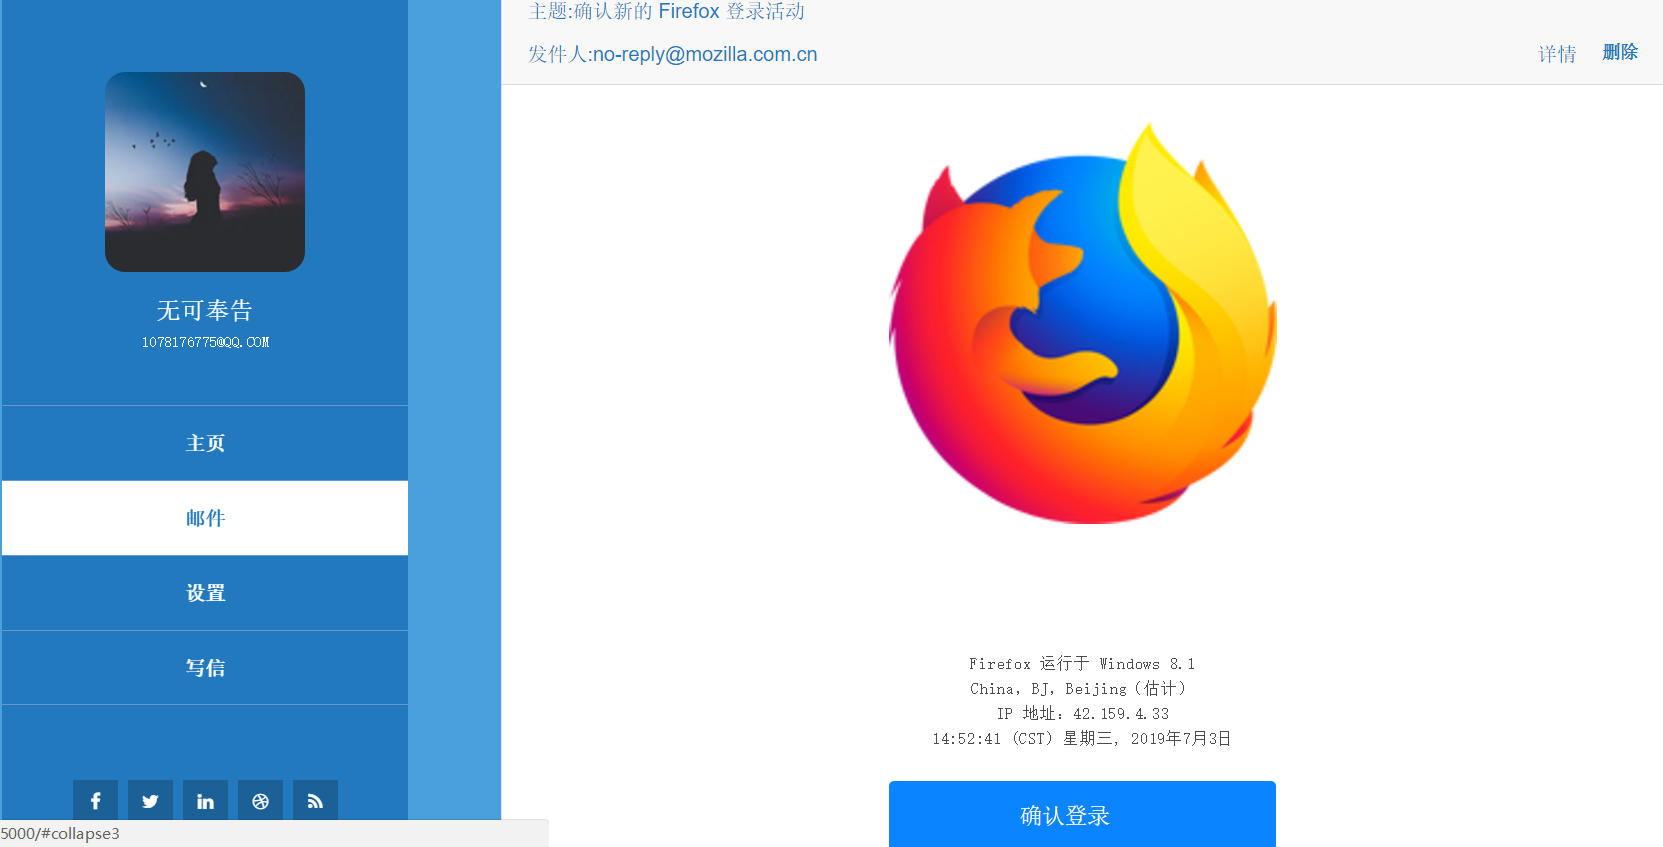
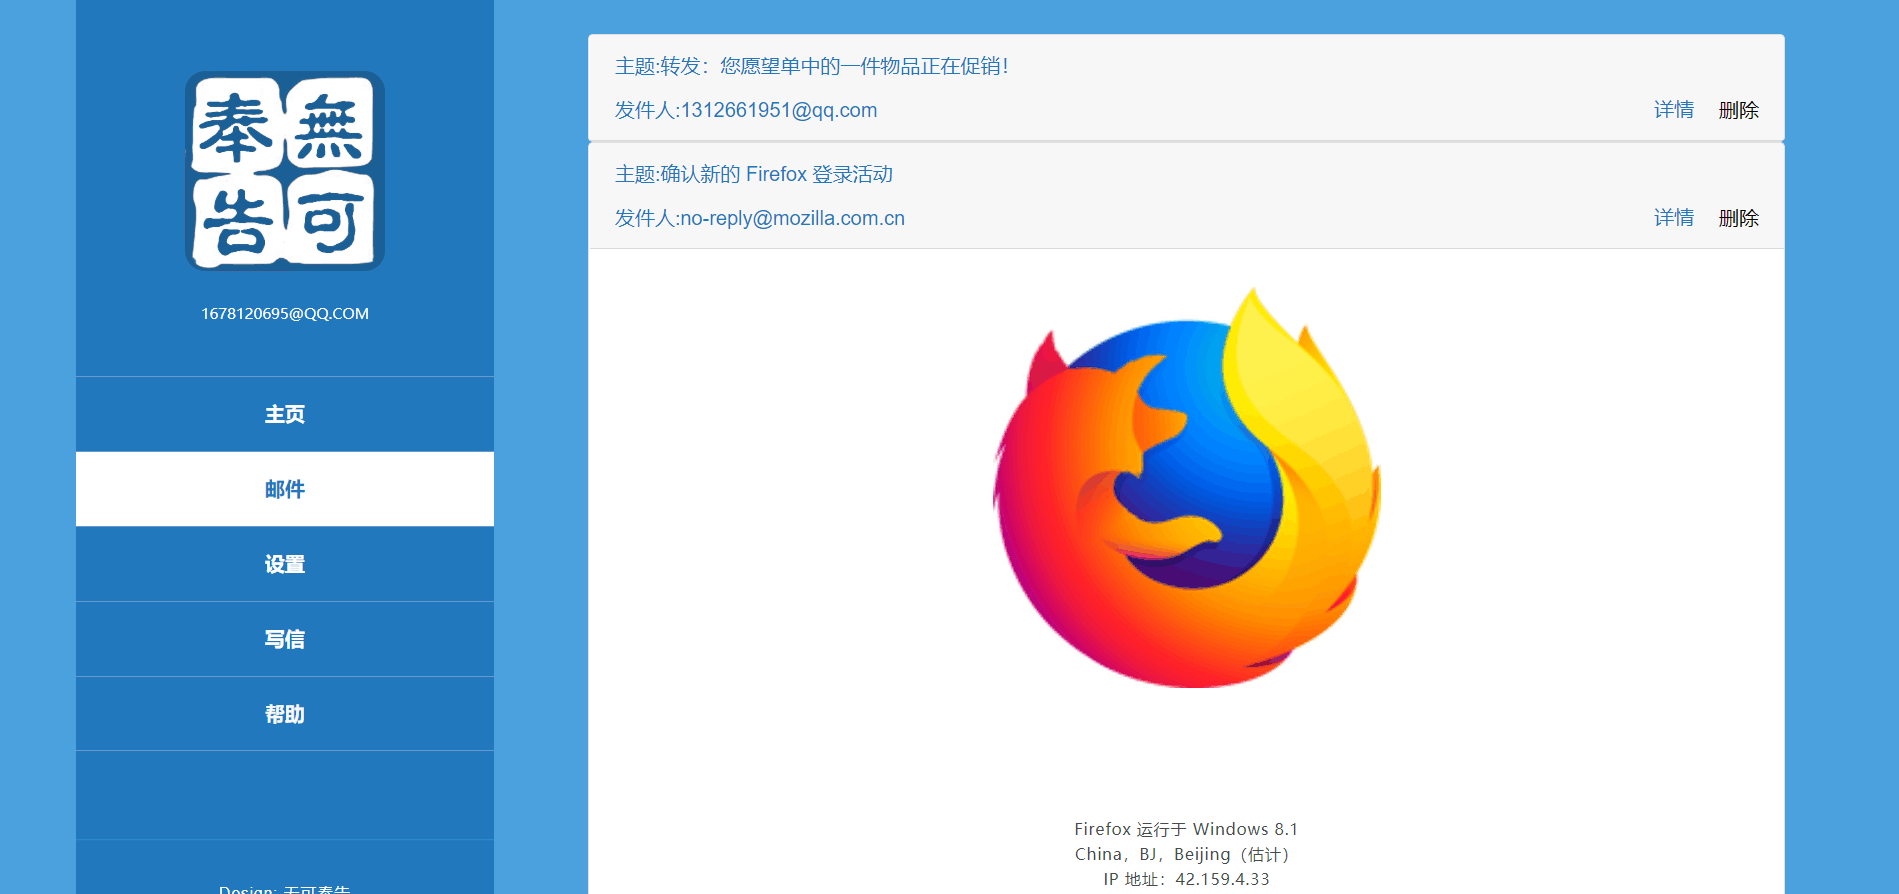
test edition5

diff --git a/WebProject/WebProject/templates/index.html b/WebProject/WebProject/templates/index.html
@@ -25,7 +25,7 @@
           <i class="fa fa-times" id="menu-close"></i>
           <div class="container">
             <div class="image">
-              <a href="#"><img src="../static/images/web.png" alt="Blugoon by Tooplate" /></a>
+              <a href="#"><img src="../static/images/wkfg.png" alt="Blugoon by Tooplate" /></a>
             </div>
             <div class="author-content">
               
@@ -37,7 +37,7 @@
                 <li><a href="#section2">邮件</a></li>
                 <li><a href="#section3">设置</a></li>
                 <li><a href="#section4">写信</a></li>
-                <li><a class="help" style="color: #F7F7F7;cursor: pointer;">帮助</a></li>
+                <li><a class="help" onclick="javascrtpt:window.location.href='/docs'" style="color: #F7F7F7;cursor: pointer;">帮助</a></li>
               </ul>
             </nav>
 
@@ -264,9 +264,6 @@
       else if(hour>12 && hour<18){document.getElementById("hello").innerHTML = "下午好，无可奉告"}
       else if(hour>16 && hour<24){document.getElementById("hello").innerHTML = "晚上好，无可奉告"}
 
-      $(".help").click(function(){
-                window.open("docs");
-            });
       
       function showlove(){
         $.get("/showfocus",

diff --git a/WebProject/WebProject/templates/login.html b/WebProject/WebProject/templates/login.html
@@ -42,7 +42,7 @@
         <script src="../static/js/scripts.js"></script>
         <script>
             $(".help").click(function(){
-                window.open("docs");
+                window.open("docs.html");
             });
 
             </script>

diff --git a/WebProject/WebProject/test.py b/WebProject/WebProject/test.py
@@ -9,8 +9,8 @@ import matplotlib as mpl
 import matplotlib.pyplot as plt
 from sklearn.feature_extraction.text import CountVectorizer,TfidfVectorizer
 from sklearn.model_selection import train_test_split
-from sklearn.decomposition import TruncatedSVD  #降维
-from sklearn.naive_bayes import BernoulliNB     #伯努利分布的贝叶斯公式
+from sklearn.decomposition import TruncatedSVD  
+from sklearn.naive_bayes import BernoulliNB     
 from sklearn.metrics import f1_score,precision_score,recall_score
 from chineseYeahYeah import jiebaclearText
 import pyodbc
@@ -41,7 +41,7 @@ def getFocusname(): #从数据库中获取信息
     focusname=str(rows)
     index = len(rows)
     for i in range(0,index):
-        rows[i] = ''.join(str(s) for s in rows)
+        rows[i] = ''.join(rows[i])
     focus_name = rows
     return focus_name
 
@@ -55,7 +55,7 @@ def getWhitelist():#从数据库中获取白名单信息
         whitelist=str(rows)
         index = len(rows)
         for i in range(0,index):
-            rows[i] = ''.join(str(s) for s in rows)
+            rows[i] = ''.join(rows[i])
         white_list = rows
     except Exception as e:
         print("请检查sql命令与数据库是否对应",e)
@@ -71,7 +71,7 @@ def getBlockedWords():#从数据库中获取黑名单、屏蔽词信息
         blockwords=str(rows)
         index = len(rows)
         for i in range(0,index):
-            rows[i] = ''.join(str(s) for s in rows)
+            rows[i] = ''.join(rows[i])
     except Exception as e:
         print("请检查sql命令与数据库是否对应",e)
     words_blocklist = rows
@@ -84,7 +84,7 @@ def getBlockedWords():#从数据库中获取黑名单、屏蔽词信息
         blockfrom=str(rows1)
         index1 = len(rows1)
         for i in range(0,index1):
-            rows1[i] = ''.join(str(s) for s in rows)
+            rows1[i] = ''.join(rows1[i])
     except Exception as e:
         print("请检查sql命令与数据库是否对应",e)
     from_blocklist = rows1

diff --git a/WebProject/WebProject/start.py b/WebProject/WebProject/start.py
@@ -245,7 +245,7 @@ app.config['MAIL_PASSWORD'] = 'veztvpjocggzjbdb'
 
 mail = Mail(app)
 
-
+addNew()
 ham,spam=joint()
 focusname=getFocusname()
 
@@ -483,6 +483,5 @@ def addfocusname():
     return FocusName
 
 if __name__ == '__main__':
-    addNew()
     app.run(host = '0.0.0.0', port = 8000)
 
